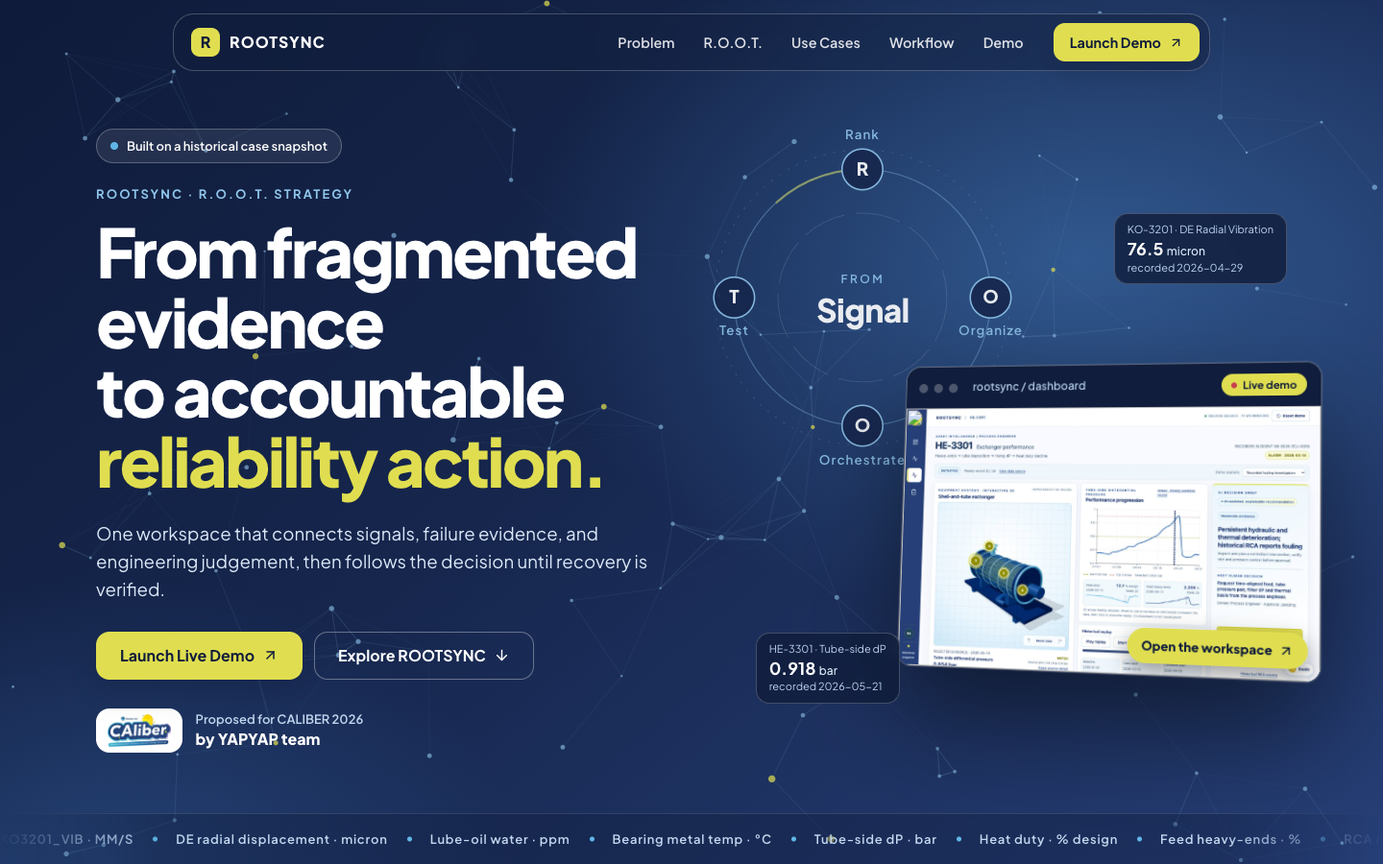
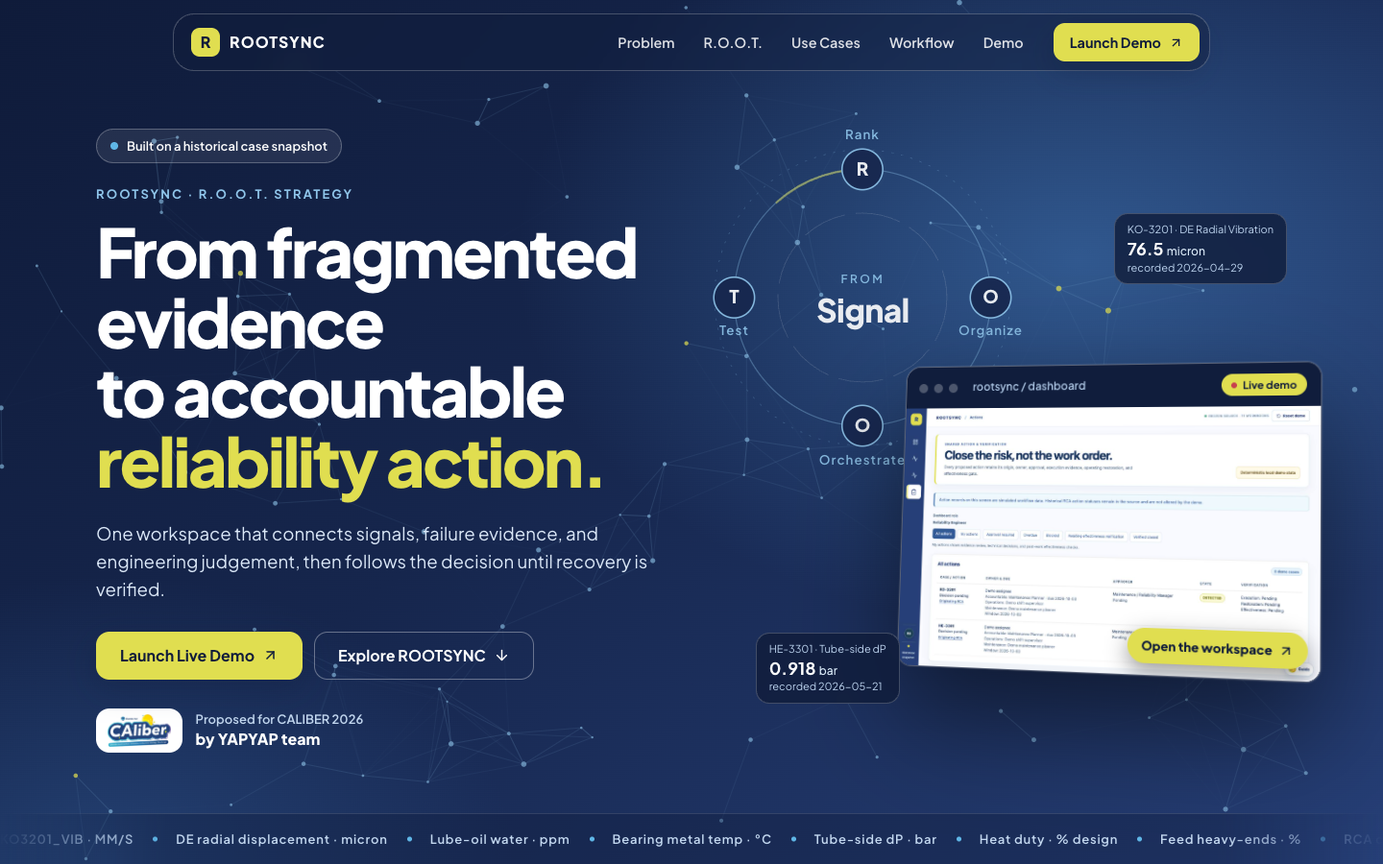
fix: phone and tablet layout for the landing page
The hero now stacks below 1080px with the demo window and recorded
readings in normal flow, so nothing is cut off or covered by the ticker.
Phones get a taller banded layout for the 380-dot scene. Mechanism chains
wrap cleanly, R.O.O.T. scenes grow with their content, and the impact
circles sit beside their figures. Adds e2e checks for both.

Changed region(s): [[0.6562, 0.4667, 0.9688, 0.7778]]

diff --git a/app/landing.css b/app/landing.css
@@ -346,7 +346,7 @@ html.lenis, html.lenis body { height: auto; }
 
 /* 06 Impact */
 .lp-bubbles { display: grid; grid-template-columns: repeat(3, minmax(0, 1fr)); gap: 14px; margin: clamp(36px, 5vw, 64px) auto 20px; }
-.lp-bubbles li { display: grid; gap: 6px; align-content: start; padding: 26px; border-radius: var(--lp-r-card); background: #fff; border: 1px solid var(--lp-line); font-size: .9375rem; color: var(--lp-muted); }
+.lp-bubbles li { display: grid; gap: 6px; align-content: start; min-width: 0; padding: 26px; border-radius: var(--lp-r-card); background: #fff; border: 1px solid var(--lp-line); font-size: .9375rem; color: var(--lp-muted); }
 .lp-bubble-stage { --size: 200px; display: grid; place-items: center; height: var(--size); margin-bottom: 8px; }
 .lp-bubble-stage i { position: relative; width: calc(var(--k) * var(--size)); aspect-ratio: 1; border-radius: 50%; background: radial-gradient(circle at 32% 28%, var(--lp-sky), var(--lp-navy)); }
 .lp-bubbles li.address .lp-bubble-stage i { background: var(--lp-navy); }
@@ -375,7 +375,7 @@ html.lenis, html.lenis body { height: auto; }
 .lp-closing { display: grid; justify-items: center; gap: clamp(16px, 2.4vw, 28px); }
 .lp-closing-lead { color: var(--lp-sky); font-size: clamp(1.1rem, 2.2vw, 1.75rem); font-weight: 600; letter-spacing: -.01em; }
 .lp-closing-main { max-width: 14em; font-size: clamp(2.3rem, 6vw, 5.4rem); font-weight: 800; line-height: 1.08; letter-spacing: -.04em; text-wrap: balance; }
-.lp-closing mark { padding: 0 .12em; border-radius: .14em; background: linear-gradient(var(--lp-yellow), var(--lp-yellow)) no-repeat 0 50% / 100% 100%; color: var(--lp-deep); -webkit-box-decoration-break: clone; box-decoration-break: clone; }
+.lp-closing mark { padding: 0 .08em; margin-right: -.04em; border-radius: .14em; background: linear-gradient(var(--lp-yellow), var(--lp-yellow)) no-repeat 0 50% / 100% 100%; color: var(--lp-deep); -webkit-box-decoration-break: clone; box-decoration-break: clone; }
 .lp-anim .lp-closing mark { background-size: 0% 100%; color: #fff; transition: background-size .75s var(--lp-ease), color .35s .25s; }
 .lp-anim .lp-closing mark.lit { background-size: 100% 100%; color: var(--lp-deep); }
 
@@ -403,14 +403,14 @@ html.lenis, html.lenis body { height: auto; }
 @keyframes lp-hand { 0%, 12%, 100% { border-color: var(--lp-sky); background: var(--lp-night); color: #fff; } 3%, 8% { border-color: var(--lp-yellow); background: var(--lp-yellow); color: var(--lp-deep); } }
 @keyframes lp-draw { 0% { stroke-dashoffset: 1; } 42%, 100% { stroke-dashoffset: 0; } }
 @keyframes lp-step { 0%, 16%, 100% { background: #fff; color: inherit; box-shadow: none; scale: 1; } 3%, 10% { background: var(--lp-navy); color: #fff; box-shadow: 0 0 0 5px #5fb6e640; scale: 1.06; } }
-@keyframes lp-trip { 0%, 34% { background: #fff; color: #d3323f; scale: 1; translate: 0; box-shadow: 0 0 0 0 #d3323f00; } 36% { background: #d3323f; color: #fff; scale: 1.35; box-shadow: 0 0 0 0 #d3323fcc; } 39% { translate: -5px 0; } 42% { translate: 5px 0; } 45% { translate: -4px 0; background: #ff5a67; } 48% { translate: 4px 0; background: #d3323f; } 51% { translate: -2px 0; background: #ff5a67; box-shadow: 0 0 0 18px #d3323f00; } 54% { translate: 0; background: #d3323f; box-shadow: 0 0 0 0 #d3323fcc; } 60% { background: #ff5a67; } 66% { background: #d3323f; box-shadow: 0 0 0 22px #d3323f00; scale: 1.3; } 72% { background: #ff5a67; } 78%, 90% { background: #d3323f; color: #fff; scale: 1.2; } 100% { background: #fff; color: #d3323f; scale: 1; } }
+@keyframes lp-trip { 0%, 34% { background: #fff; color: #d3323f; scale: 1; translate: 0; box-shadow: 0 0 0 0 #d3323f00; } 36% { background: #d3323f; color: #fff; scale: var(--trip-scale, 1.35); box-shadow: 0 0 0 0 #d3323fcc; } 39% { translate: -5px 0; } 42% { translate: 5px 0; } 45% { translate: -4px 0; background: #ff5a67; } 48% { translate: 4px 0; background: #d3323f; } 51% { translate: -2px 0; background: #ff5a67; box-shadow: 0 0 0 18px #d3323f00; } 54% { translate: 0; background: #d3323f; box-shadow: 0 0 0 0 #d3323fcc; } 60% { background: #ff5a67; } 66% { background: #d3323f; box-shadow: 0 0 0 22px #d3323f00; scale: var(--trip-scale, 1.3); } 72% { background: #ff5a67; } 78%, 90% { background: #d3323f; color: #fff; scale: 1.2; } 100% { background: #fff; color: #d3323f; scale: 1; } }
 @keyframes lp-alarm { 0%, 34%, 100% { background: var(--lp-tint); box-shadow: inset 0 0 0 0 #d3323f00; } 37%, 45%, 54%, 66%, 90% { background: #fde3e6; box-shadow: inset 0 0 0 2px #d3323f; } 41%, 50%, 60% { background: #fff5f6; box-shadow: inset 0 0 0 2px #d3323f66; } }
 @keyframes lp-sort { 0%, 22% { translate: 0 calc(var(--from) * 46px); } 40%, 92% { translate: 0 calc(var(--to) * 46px); } 100% { translate: 0 calc(var(--from) * 46px); } }
 @keyframes lp-score { 0%, 22% { transform: scaleX(.14); background: #7d93b5; } 40%, 92% { transform: scaleX(1); background: var(--lp-sky); } 100% { transform: scaleX(.14); background: #7d93b5; } }
 @keyframes lp-pop { 0%, 44% { opacity: 0; scale: .5; } 52%, 92% { opacity: 1; scale: 1; } 100% { opacity: 0; scale: .5; } }
 @keyframes lp-feed { 0%, 8% { translate: 0; opacity: 1; border-color: #ffffff4d; } 20% { translate: 22px 0; opacity: 1; border-color: var(--lp-yellow); } 30%, 92% { translate: 0; opacity: .5; } 100% { opacity: 1; } }
 @keyframes lp-nudge { 50% { translate: 6px 0; } }
-@keyframes lp-row { 0% { opacity: 0; translate: -16px 0; } 7%, 68% { opacity: 1; translate: 0; } 76%, 100% { opacity: 0; translate: 0; } }
+@keyframes lp-row { 0% { opacity: 0; translate: -16px 0; } 7%, 90% { opacity: 1; translate: 0; } 96%, 100% { opacity: 0; translate: 0; } }
 @keyframes lp-tick { 0% { background: transparent; border-color: #9db1c6; color: transparent; scale: 1; } 4% { background: #1c725b; border-color: #1c725b; color: #fff; scale: 1.45; } 9%, 70% { background: #1c725b; border-color: #1c725b; color: #fff; scale: 1; } 78%, 100% { background: transparent; border-color: #9db1c6; color: transparent; } }
 @keyframes lp-stamp { 0%, 68% { opacity: 0; scale: 2; } 74%, 94% { opacity: 1; scale: 1; } 100% { opacity: 0; scale: 1; } }
 @keyframes lp-shots { 0%, 22% { opacity: 1; } 25%, 97% { opacity: 0; } 100% { opacity: 1; } }
@@ -439,14 +439,28 @@ html.lenis, html.lenis body { height: auto; }
   .lp-nav-links { display: none; }
   .lp-nav-bar .lp-btn { margin-left: auto; }
   .lp-nav-toggle { display: grid; }
-  .lp-chip.c0 { right: 0; }
-  .lp-chip.c1 { left: 0; }
+  /* Stacked hero for tablets and phones: nothing is positioned outside the column */
+  .lp-hero { min-height: 0; padding-bottom: 104px; }
+  .lp-hero-inner { grid-template-columns: minmax(0, 1fr); }
+  .lp-hero-visual { display: grid; gap: 14px; max-width: 640px; margin: 30px auto 0; aspect-ratio: auto; perspective: 1200px; }
+  .lp-orbit { display: none; }
+  .lp-hero-demo { position: relative; right: auto; bottom: auto; z-index: 1; width: 100%; transform: rotateY(-4deg) rotateX(2deg); transform-origin: 50% 50%; }
+  .lp-chips { position: relative; z-index: 1; display: flex; flex-wrap: wrap; gap: 10px; }
+  .lp-chip, .lp-chip.c0, .lp-chip.c1 { position: static; flex: 1 1 150px; animation: none; }
 }
 @media (min-width: 1081px) { .lp-drawer { display: none; } }
 @media (max-width: 900px) {
   .lp-hero { padding-top: 104px; }
-  .lp-hero-inner, .lp-usecase-top { grid-template-columns: minmax(0, 1fr); }
-  .lp-hero-visual { max-width: 460px; margin-top: 18px; }
+  .lp-usecase-top { grid-template-columns: minmax(0, 1fr); }
+  .lp-chain { gap: 8px; --trip-scale: 1.2; }
+  .lp-chain li:not(:last-child)::after { display: none; }
+  .lp-viz { height: auto; min-height: 260px; }
+  .lp-viz.organize { padding-bottom: 48px; }
+  .lp-viz.rank { padding-bottom: 56px; }
+  .lp-viz.orchestrate { padding-bottom: 28px; }
+  .lp-bubbles { grid-template-columns: minmax(0, 1fr); }
+  .lp-bubbles li { grid-template-columns: 116px minmax(0, 1fr); column-gap: 18px; align-items: center; padding: 20px; }
+  .lp-bubble-stage { --size: 110px; grid-row: 1 / span 3; margin: 0; }
   .lp-field { min-height: 0; padding-top: 40px; }
   .lp-field svg { max-height: none; }
   .lp-dim { grid-template-columns: minmax(0, 1fr); }
@@ -466,24 +480,32 @@ html.lenis, html.lenis body { height: auto; }
   .lp-nav-bar > .lp-btn { display: none; }
   .lp-nav-toggle { margin-left: auto; }
   .lp-cta .lp-btn { flex: 1 1 100%; }
-  .lp-hero-visual { max-width: 340px; }
   .lp-relay small { display: none; }
   .lp-relay-node { width: 46px; height: 46px; }
   .lp-relay strong { font-size: .8125rem; }
   .lp-viz.organize { grid-template-columns: minmax(0, 1fr); height: auto; padding-bottom: 44px; }
   .lp-viz.organize .flow { display: none; }
-  .lp-viz.organize .src { display: flex; flex-wrap: wrap; gap: 6px; }
-  .lp-chip { padding: 7px 10px; }
-  .lp-chip strong { font-size: .95rem; }
-  .lp-stats, .lp-cards, .lp-bubbles, .lp-usecase-trends { grid-template-columns: minmax(0, 1fr); }
+  .lp-viz.organize .src { display: flex; flex-wrap: wrap; gap: 6px; margin-bottom: 4px; }
+  .lp-viz.organize .src li { margin: 0; }
+  .lp-chip { padding: 8px 11px; }
+  .lp-chip small { white-space: normal; }
+  .lp-chain { padding: 14px; --trip-scale: 1.14; }
+  .lp-chain li span { padding: 8px 12px; font-size: .8125rem; }
+  .lp-hero-open { right: 8px; bottom: 8px; padding: 6px 11px; font-size: .75rem; }
+  .lp-proposed img { height: 40px; }
+  .lp-stats, .lp-cards, .lp-usecase-trends { grid-template-columns: minmax(0, 1fr); }
   .lp-stat, .lp-stat + .lp-stat { padding: 18px 0; border-left: 0; }
   .lp-stat + .lp-stat { border-top: 1px solid var(--lp-line); }
-  .lp-field-label { display: none; }
+  .lp-field:not(.compact) .lp-field-label { display: none; }
+  .lp-field.compact .lp-field-label text { font-size: 15px; }
+  .lp-field.compact .lp-field-label .n { font-size: 17px; }
+  .lp-field-caps { height: 150px; }
   .lp-field-legend .share { margin-left: 0; }
   .lp-tabs { display: grid; grid-template-columns: repeat(2, minmax(0, 1fr)); width: 100%; box-sizing: border-box; }
   .lp-tabs button { padding: 10px 12px; font-size: .8125rem; }
   .lp-section.dark:not(.flush) { margin: 0; border-radius: var(--lp-r-card); }
   .lp-usecase { border-radius: var(--lp-r-card); }
-  .lp-bubble-stage { --size: 150px; }
+  .lp-bubbles li { grid-template-columns: 84px minmax(0, 1fr); column-gap: 14px; }
+  .lp-bubble-stage { --size: 80px; }
   .lp-dim-letter { font-size: 14rem; top: -8%; }
 }

diff --git a/components/landing/IncidentField.tsx b/components/landing/IncidentField.tsx
@@ -1,40 +1,62 @@
 'use client';
-import {useEffect,useMemo,useRef} from 'react';
+import {useEffect,useMemo,useRef,useState} from 'react';
 import gsap from 'gsap';
 import {ScrollTrigger} from 'gsap/ScrollTrigger';
 import type {Family} from '@/lib/landing-data';
 
 type Scene={kicker:string;title:string;body:string};
-const W=1000,H=520,UNIT=13,COLS=5,BASE=446;
+type Dot={a:[number,number];b:[number,number];c:[number,number];fill:string;repeat:boolean};
+type Layout={w:number;h:number;r:number;dots:Dot[];labels:{name:string;count:number;x:number;y:number;ny:number;anchor:'middle'|'start'}[]};
 const tones=['#e0de50','#5fb6e6','#9fd0f2'];
 const muted='#5f79a3';
 
+// Wide screens stack each family as a column. Phones get a taller canvas with
+// one band per family, so the dots stay large enough to read.
+function buildLayout(families:Family[],total:number,compact:boolean):Layout{
+ let seed=7;const rnd=()=>{seed=(seed*16807)%2147483647;return seed/2147483647};
+ const w=compact?600:1000,unit=compact?14:13;
+ const order=Array.from({length:total},(_,i)=>i).sort(()=>rnd()-.5);
+ const gridCols=compact?20:38,gridStep=compact?28:24,gridRow=compact?30:34;
+ const gx=(w-(gridCols-1)*gridStep)/2,gy=compact?40:96;
+ const perLine=compact?40:5;
+ const dots:Dot[]=[],labels:Layout['labels']=[];
+ let h=compact?0:520,n=0,cursor=compact?26:0;
+ const blockW=perLine*unit,gap=compact?0:(w-families.length*blockW)/(families.length+1),base=446;
+ families.forEach((f,fi)=>{
+  const lines=Math.ceil(f.count/perLine);
+  const x0=compact?(w-blockW)/2:gap+fi*(blockW+gap);
+  if(compact)labels.push({name:f.name,count:f.count,x:x0,y:cursor,ny:cursor,anchor:'start'});
+  else labels.push({name:f.name,count:f.count,x:x0+blockW/2,y:base+26,ny:base-lines*unit-6,anchor:'middle'});
+  const top=cursor+16;
+  for(let k=0;k<f.count;k++,n++){
+   const slot=order[n];
+   dots.push({
+    a:[0,0],
+    b:[gx+(slot%gridCols)*gridStep,gy+Math.floor(slot/gridCols)*gridRow],
+    c:compact?[+(x0+(k%perLine)*unit+unit/2).toFixed(1),top+Math.floor(k/perLine)*unit+unit/2]:[+(x0+(k%perLine)*unit+unit/2).toFixed(1),base-Math.floor(k/perLine)*unit],
+    fill:fi<3?tones[fi]:muted,
+    repeat:slot===201||slot===202,
+   });
+  }
+  if(compact)cursor=top+lines*unit+30;
+ });
+ if(compact)h=Math.max(cursor,gy+Math.ceil(total/gridCols)*gridRow+20);
+ dots.forEach(d=>{d.a=[+(24+rnd()*(w-48)).toFixed(1),+(24+rnd()*(h-48)).toFixed(1)]});
+ return {w,h,r:compact?5:4,dots,labels};
+}
+
 // One dot per recorded incident. The same 380 dots are arranged three ways:
-// scattered, one per asset, and stacked by failure family.
+// scattered, one per asset, and grouped by failure family.
 export function IncidentField({families,total,scenes,share}:{families:Family[];total:number;scenes:Scene[];share:string}){
  const root=useRef<HTMLDivElement>(null);
- const dots=useMemo(()=>{
-  let seed=7;const rnd=()=>{seed=(seed*16807)%2147483647;return seed/2147483647};
-  const gridCols=38,gx=(W-gridCols*24)/2+12,gy=96;
-  const order=Array.from({length:total},(_,i)=>i).sort(()=>rnd()-.5);
-  const out:{a:[number,number];b:[number,number];c:[number,number];fill:string;repeat:boolean}[]=[];
-  const blockW=COLS*UNIT,gap=(W-families.length*blockW)/(families.length+1);
-  let n=0;
-  families.forEach((f,fi)=>{
-   const x0=gap+fi*(blockW+gap);
-   for(let k=0;k<f.count;k++,n++){
-    const slot=order[n];
-    out.push({
-     a:[+(30+rnd()*(W-60)).toFixed(1),+(30+rnd()*(H-60)).toFixed(1)],
-     b:[gx+(slot%gridCols)*24,gy+Math.floor(slot/gridCols)*34],
-     c:[+(x0+(k%COLS)*UNIT+UNIT/2).toFixed(1),BASE-Math.floor(k/COLS)*UNIT],
-     fill:fi<3?tones[fi]:muted,
-     repeat:slot===201||slot===202,
-    });
-   }
-  });
-  return {out,blockW,gap};
- },[families,total]);
+ const [compact,setCompact]=useState(false);
+ useEffect(()=>{
+  const mq=window.matchMedia('(max-width: 640px)');
+  const sync=()=>setCompact(mq.matches);
+  sync();mq.addEventListener('change',sync);
+  return ()=>mq.removeEventListener('change',sync);
+ },[]);
+ const layout=useMemo(()=>buildLayout(families,total,compact),[families,total,compact]);
  useEffect(()=>{
   gsap.registerPlugin(ScrollTrigger);
   const el=root.current;if(!el)return;
@@ -44,10 +66,10 @@ export function IncidentField({families,total,scenes,share}:{families:Family[];t
    const caps=el.querySelectorAll<HTMLElement>('.lp-field-cap');
    const tl=gsap.timeline({defaults:{ease:'power3.inOut'},paused:mode==='static'});
    gsap.set(caps,{autoAlpha:0,y:24});gsap.set(caps[0],{autoAlpha:1,y:0});
-   tl.to(circles,{attr:{cx:i=>dots.out[i].b[0],cy:i=>dots.out[i].b[1]},duration:1.4,stagger:{amount:.5,from:'random'}},.4)
+   tl.to(circles,{attr:{cx:i=>layout.dots[i].b[0],cy:i=>layout.dots[i].b[1]},duration:1.4,stagger:{amount:.5,from:'random'}},.4)
     .to(caps[0],{autoAlpha:0,y:-24,duration:.4},.4).to(caps[1],{autoAlpha:1,y:0,duration:.5},.9)
-    .to('.dot.repeat',{attr:{r:8},fill:'#e0de50',duration:.5},1.9)
-    .to(circles,{attr:{cx:i=>dots.out[i].c[0],cy:i=>dots.out[i].c[1],r:4.6},fill:i=>dots.out[i].fill,duration:1.6,stagger:{amount:.6,from:'random'}},3)
+    .to('.dot.repeat',{attr:{r:layout.r*2},fill:'#e0de50',duration:.5},1.9)
+    .to(circles,{attr:{cx:i=>layout.dots[i].c[0],cy:i=>layout.dots[i].c[1],r:layout.r+.6},fill:i=>layout.dots[i].fill,duration:1.6,stagger:{amount:.6,from:'random'}},3)
     .to(caps[1],{autoAlpha:0,y:-24,duration:.4},3).to(caps[2],{autoAlpha:1,y:0,duration:.5},3.6)
     .fromTo(el.querySelectorAll('.lp-field-label'),{autoAlpha:0,y:8},{autoAlpha:1,y:0,duration:.5,stagger:.04},4.4)
     .fromTo(el.querySelector('.lp-field-legend'),{autoAlpha:0},{autoAlpha:1,duration:.5},4.6)
@@ -55,20 +77,19 @@ export function IncidentField({families,total,scenes,share}:{families:Family[];t
    if(mode==='static'){tl.progress(1);return}
    ScrollTrigger.create(mode==='pin'
     ?{trigger:el,start:'top top',end:'+=260%',pin:true,scrub:.8,animation:tl,anticipatePin:1}
-    :{trigger:el,start:'top 65%',animation:tl,toggleActions:'play none none none'});
-   if(mode==='play')tl.timeScale(.75);
+    :{trigger:el.querySelector('svg'),start:'top 70%',animation:tl,toggleActions:'play none none none'});
   };
   mm.add('(prefers-reduced-motion: reduce)',()=>build('static'));
   mm.add('(prefers-reduced-motion: no-preference) and (min-width: 901px)',()=>build('pin'));
   mm.add('(prefers-reduced-motion: no-preference) and (max-width: 900px)',()=>build('play'));
   return ()=>mm.revert();
- },[dots]);
+ },[layout]);
  const top=families.slice(0,3);
- return <div className="lp-field" ref={root}>
+ return <div className={'lp-field'+(compact?' compact':'')} ref={root}>
   <div className="lp-field-caps">{scenes.map(s=><div className="lp-field-cap" key={s.title}><p className="lp-kicker">{s.kicker}</p><h3>{s.title}</h3><p>{s.body}</p></div>)}</div>
-  <svg viewBox={`0 0 ${W} ${H}`} role="img" aria-label={`${total} recorded incidents shown as dots. Grouped by failure family, leakage has ${top[0].count}, vibration ${top[1].count} and worn out ${top[2].count}, together ${share} of all incidents.`}>
-   {dots.out.map((d,i)=><circle key={i} className={'dot'+(d.repeat?' repeat':'')} cx={d.a[0]} cy={d.a[1]} r="4" fill="#8fc5ea"/>)}
-   {families.map((f,i)=>{const x=dots.gap+i*(dots.blockW+dots.gap)+dots.blockW/2,rows=Math.ceil(f.count/COLS);return <g className="lp-field-label" key={f.name}><text className="n" x={x} y={BASE-rows*UNIT-6}>{f.count}</text><text x={x} y={BASE+26}>{f.name}</text></g>})}
+  <svg key={compact?'compact':'wide'} viewBox={`0 0 ${layout.w} ${layout.h}`} role="img" aria-label={`${total} recorded incidents shown as dots. Grouped by failure family, leakage has ${top[0].count}, vibration ${top[1].count} and worn out ${top[2].count}, together ${share} of all incidents.`}>
+   {layout.dots.map((d,i)=><circle key={i} className={'dot'+(d.repeat?' repeat':'')} cx={d.a[0]} cy={d.a[1]} r={layout.r} fill="#8fc5ea"/>)}
+   {layout.labels.map(l=><g className="lp-field-label" key={l.name}>{l.anchor==='start'?<text x={l.x} y={l.y} textAnchor="start"><tspan className="n">{l.count}</tspan><tspan dx="8">{l.name}</tspan></text>:<><text className="n" x={l.x} y={l.ny}>{l.count}</text><text x={l.x} y={l.y}>{l.name}</text></>}</g>)}
   </svg>
   <ul className="lp-field-legend">{top.map((f,i)=><li key={f.name}><i style={{background:tones[i]}}/>{f.name} <b>{f.count}</b></li>)}<li className="share"><b>{share}</b> of all incidents</li></ul>
   <p className="lp-source">Source: Incident Database, failure-mechanism field. Family labels are normalized and are not verified causes.</p>

diff --git a/components/landing/LandingMotion.tsx b/components/landing/LandingMotion.tsx
@@ -25,6 +25,8 @@ export function LandingMotion(){
   lenis.on('scroll',ScrollTrigger.update);
   const tick=(t:number)=>lenis.raf(t*1000);
   gsap.ticker.add(tick);gsap.ticker.lagSmoothing(0);
+  // Below this width the hero stacks and the demo window sits nearly flat so nothing is cut off
+  const stacked=window.matchMedia('(max-width: 1080px)').matches;
   const ctx=gsap.context(()=>{
    // Hero entrance
    const h1=new SplitText('.lp-hero h1',{type:'lines',mask:'lines'});
@@ -33,7 +35,7 @@ export function LandingMotion(){
     .fromTo('.lp-hero [data-intro]',{autoAlpha:0,y:24},{autoAlpha:1,y:0,duration:.7,stagger:.09},.15)
     .from(h1.lines,{yPercent:110,duration:1,stagger:.12},.25)
     .fromTo('.lp-orbit',{autoAlpha:0,scale:.9,rotate:-12},{autoAlpha:1,scale:1,rotate:0,duration:1.2,ease:'expo.out'},.45)
-    .fromTo('.lp-hero-demo',{autoAlpha:0,y:60,rotationY:-30},{autoAlpha:1,y:0,rotationY:-14,rotationX:6,duration:1.3,ease:'expo.out'},.6)
+    .fromTo('.lp-hero-demo',{autoAlpha:0,y:60,rotationY:stacked?-12:-30},{autoAlpha:1,y:0,rotationY:stacked?-4:-14,rotationX:stacked?2:6,duration:1.3,ease:'expo.out'},.6)
     .fromTo('.lp-chip',{autoAlpha:0,scale:.8},{autoAlpha:1,scale:1,duration:.6,stagger:.12,ease:'back.out(1.6)'},1.1);
    gsap.to('.lp-hero-inner',{yPercent:-10,autoAlpha:.25,ease:'none',scrollTrigger:{trigger:'.lp-hero',start:'top top',end:'bottom top',scrub:true}});
 
@@ -65,16 +67,16 @@ export function LandingMotion(){
    gsap.to('.lp-closing-wrap',{'--glow':1,ease:'none',scrollTrigger:{trigger:'.lp-closing-wrap',start:'top 90%',end:'top 20%',scrub:true}});
    // Hero demo window leans toward the pointer
    const demoCard=document.querySelector<HTMLElement>('.lp-hero-demo'),heroEl=document.querySelector<HTMLElement>('.lp-hero');
-   if(demoCard&&heroEl&&window.matchMedia('(pointer: fine)').matches){
+   if(demoCard&&heroEl&&!stacked&&window.matchMedia('(pointer: fine)').matches){
     const rx=gsap.quickTo(demoCard,'rotationX',{duration:.6,ease:'power3'}),ry=gsap.quickTo(demoCard,'rotationY',{duration:.6,ease:'power3'});
     heroEl.addEventListener('pointermove',e=>{const r=heroEl.getBoundingClientRect();ry(-14+((e.clientX-r.left)/r.width-.5)*14);rx(6-((e.clientY-r.top)/r.height-.5)*10)});
    }
    // Same signal, different cause: the vibrating signal lands first, the fork draws, then each asset slides in and its cause chain pops step by step
    gsap.timeline({scrollTrigger:{trigger:'.lp-same-grid',start:'top 74%'},defaults:{ease:'power3.out'}})
-    .from('.lp-same-signal',{x:-70,opacity:0,duration:.7})
+    .from('.lp-same-signal',{x:stacked?0:-70,y:stacked?40:0,opacity:0,duration:.7})
     .from('.lp-wave g',{scaleY:0,transformOrigin:'50% 50%',duration:1.1,ease:'elastic.out(1.1,.35)'},.2)
     .from('.lp-fork',{clipPath:'inset(0 100% 0 0)',duration:.6,ease:'power2.inOut'},.7)
-    .from('.lp-same-cases article',{x:110,opacity:0,rotate:2,duration:.75,stagger:.28,ease:'back.out(1.5)'},1)
+    .from('.lp-same-cases article',{x:stacked?0:110,y:stacked?50:0,opacity:0,rotate:stacked?0:2,duration:.75,stagger:.28,ease:'back.out(1.5)'},1)
     .from('.lp-same-cases li',{scale:.4,opacity:0,duration:.4,stagger:.11,ease:'back.out(2.2)'},1.35);
 
    const mm=gsap.matchMedia();

diff --git a/tests/e2e/landing.spec.ts b/tests/e2e/landing.spec.ts
@@ -162,3 +162,37 @@ test('closing statement is fully marked once it is on screen',async({page})=>{
  await expect(closing).toContainText('The goal is not to predict every failure.');
  await expect(closing.locator('mark.lit')).toHaveCount(3,{timeout:15000});
 });
+
+test('phone and tablet hero keeps every element inside the screen and unobstructed',async({browser})=>{
+ for(const [width,height] of [[360,800],[390,844],[768,1024],[820,1180],[1024,768]] as const){
+  const context=await browser.newContext({viewport:{width,height},hasTouch:true,isMobile:true});
+  const page=await context.newPage();
+  await page.goto('/');
+  await expect(page.locator('.lp.lp-ready')).toHaveCount(1);
+  await page.waitForTimeout(2600);
+  const report=await page.evaluate(()=>{
+   const vw=document.documentElement.clientWidth;
+   const box=(sel:string)=>Array.from(document.querySelectorAll(sel)).map(el=>el.getBoundingClientRect());
+   const outside=['.lp-hero h1','.lp-hero-body','.lp-proposed','.lp-hero-demo','.lp-chip','.lp-cta .lp-btn'].flatMap(sel=>box(sel).filter(r=>r.left<-1||r.right>vw+1).map(()=>sel));
+   const demo=box('.lp-hero-demo')[0],proposed=box('.lp-proposed')[0],ticker=box('.lp-ticker')[0];
+   const chipBottom=Math.max(...box('.lp-chip').map(r=>r.bottom));
+   return {outside,demoBelowCredit:demo.top>=proposed.bottom-1,chipsAboveTicker:chipBottom<=ticker.top+1};
+  });
+  expect(report,`hero layout at ${width}x${height}`).toEqual({outside:[],demoBelowCredit:true,chipsAboveTicker:true});
+  await context.close();
+ }
+});
+
+test('phone layout groups the incidents into readable bands',async({browser})=>{
+ const context=await browser.newContext({viewport:{width:390,height:844},hasTouch:true,isMobile:true});
+ const page=await context.newPage();
+ await page.goto('/');
+ const field=page.locator('#problem .lp-field');
+ await expect(field).toHaveClass(/compact/);
+ await field.locator('svg').scrollIntoViewIfNeeded();
+ await expect(field.locator('.lp-field-cap').last()).toBeVisible({timeout:15000});
+ await expect(field.locator('.lp-field-label').first()).toBeVisible();
+ const box=await field.locator('svg').boundingBox();
+ expect(box&&box.width<=390).toBe(true);
+ await context.close();
+});

diff --git a/docs/landing-implementation-report.md b/docs/landing-implementation-report.md
@@ -45,9 +45,13 @@ Dashboard business logic, `ui.json`, the snapshot builder and the source workboo
 - `npm run typecheck` passes.
 - `npm test` passes, 8 tests.
 - `npm run build` passes.
-- `npm run test:e2e` passes, 22 tests, including the pinned scene regrouping on scroll and the reduced-motion fallback.
+- `npm run test:e2e` passes, 24 tests, including the pinned scene regrouping on scroll and the reduced-motion fallback.
 - A GitHub Pages export with a base path passes `npm run verify:export`.
 - No horizontal overflow at 1440×900, 1280×720, 1024×768, 768×1024, 390×844 and 360×800.
+
+## Phone and tablet QA
+
+The page was stepped through from top to bottom with touch emulation at 360×800, 390×844, 768×1024, 820×1180, 1024×768 and 1180×820. A script flagged any text, image or control whose box left the screen, and each viewport was reviewed in screenshots including the settled state of every animated scene and the open menu. Fixes from that pass: the hero stacks below 1080 px with the demo window and readings in normal flow, the 380-dot scene uses a taller banded layout on phones, mechanism chains wrap without dangling connectors, R.O.O.T. scenes grow with their content, and the impact circles sit beside their figures. Two e2e tests keep the hero and the phone dot layout from regressing.
 
 ## Existing tests that were updated
 
@@ -63,5 +67,5 @@ Three dashboard tests were already out of date before this work. They now start 
 - Lighthouse was not run. GSAP and Lenis add to the landing bundle.
 - Two figures in the dot scene come from the local workbook and not from the committed snapshot: the full failure-family distribution, and the fact that 379 distinct tags appear across 380 rows.
 - The two external reference sites were not opened.
-- Motion was checked through scripted scrolling and screenshots in Chrome only, not by hand and not in Safari or Firefox.
+- Device checks used Chrome's touch and viewport emulation. No real phone, iPad, Safari or Firefox was used.
 - The workflow walkthrough rows and the R.O.O.T. scenes are illustrations of the KO-3201 case flow, not recorded workflow data.
